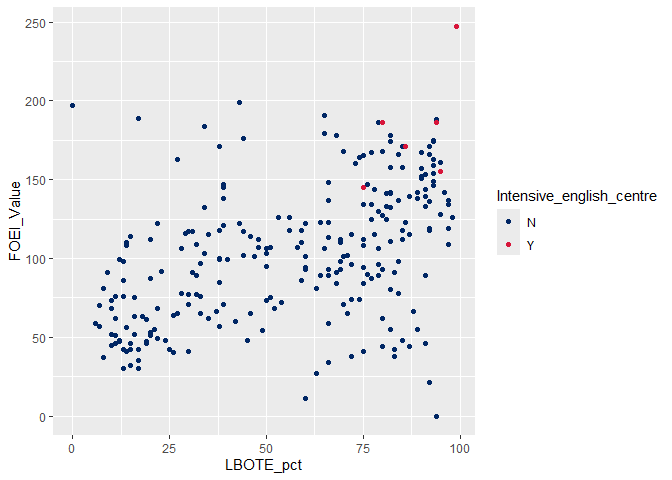
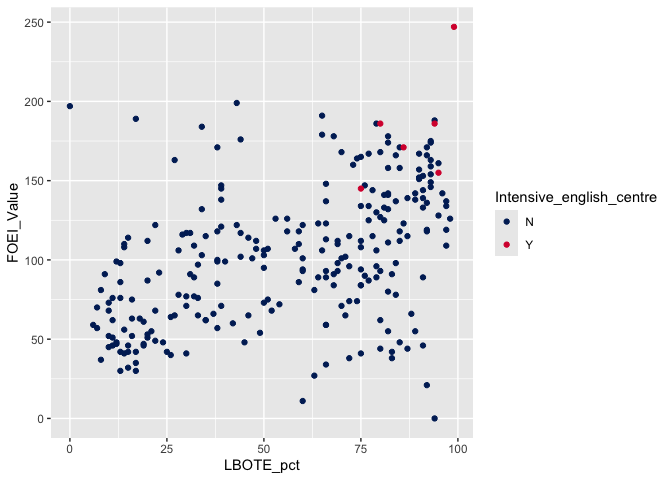
Supply default geom colour and fill within theme_doe()

diff --git a/README.md b/README.md
@@ -88,7 +88,7 @@ public_schools |>
   scale_colour_doe()
 ```
 
-<img src="./man/figures/README-fig-lbote-foei-iec-scatter-1.png" width="100%" />
+<img src="./man/figures/README-fig-lbote-foei-iec-scatter-1.png" alt="" width="100%" />
 
 An on-brand default fill scale can be applied with `scale_fill_doe()`.
 Be aware that lighter colours, although part of the department’s
@@ -109,7 +109,7 @@ public_schools |>
   scale_fill_doe()
 ```
 
-<img src="./man/figures/README-fig-connected-communities-1.png" width="100%" />
+<img src="./man/figures/README-fig-connected-communities-1.png" alt="" width="100%" />
 
 ### Colours
 
@@ -165,7 +165,7 @@ The available colours can also be visualised with `show_colours()`.
 show_colours("brand")
 ```
 
-<img src="./man/figures/README-fig-show-colours-1.png" width="100%" />
+<img src="./man/figures/README-fig-show-colours-1.png" alt="" width="100%" />
 
 To look up hex values, use `doe_colours()`:
 
@@ -184,7 +184,7 @@ ggplot2 user:
 hist(public_schools$latest_year_enrolment_FTE, col = doe_colours("blue-01"))
 ```
 
-<img src="./man/figures/README-fig-base-hist-1.png" width="100%" />
+<img src="./man/figures/README-fig-base-hist-1.png" alt="" width="100%" />
 
 ### Theming
 
@@ -205,7 +205,7 @@ public_schools |>
   theme_doe()
 ```
 
-<img src="./man/figures/README-fig-theme-doe-1.png" width="100%" />
+<img src="./man/figures/README-fig-theme-doe-1.png" alt="" width="100%" />
 
 ### Palettes
 
@@ -257,4 +257,4 @@ public_schools |>
   scale_colour_doe(my_custom_doe_palette)
 ```
 
-<img src="./man/figures/README-fig-custom-palette-1.png" width="100%" />
+<img src="./man/figures/README-fig-custom-palette-1.png" alt="" width="100%" />

diff --git a/NEWS.md b/NEWS.md
@@ -3,6 +3,8 @@
 * Include a copy of the Public Sans font family (@gardiners)
 * `get_colours()` now preserves the names of its arguments, making it easier to
   use for the `values` argument within `ggplot2::scale_*_manual` (@gardiners)
+* Use default on-brand colours when `theme_doe()` is applied without a colour or
+  fill scale (@gardiners)
 
 # doestyle 0.3.0
 
